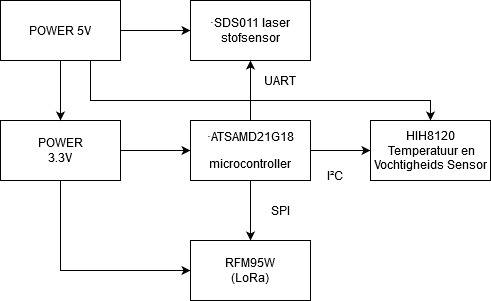
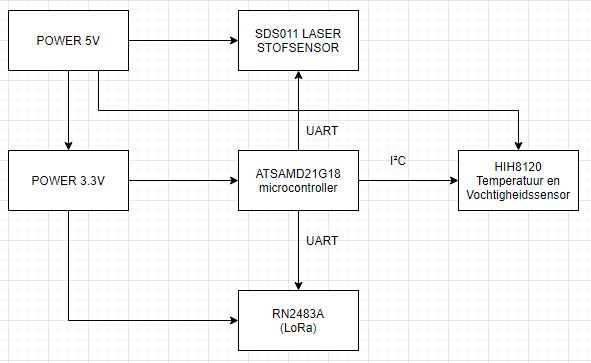
rfm95w veranderd overal naar rn2483, flowcharts aangepast

diff --git a/deliverables/analyse/hardware/argumentatie.md b/deliverables/analyse/hardware/argumentatie.md
@@ -4,8 +4,8 @@
 | ATSAMD21G | Genoeg pinnen om eventueel uitbreiding te ondersteunen                                                        |
 | SDS011    | <ul><li>Geen soldeerwerk</li> <li>Plug-and-play</li> <li>Libraries om waarden uit te lezen</li></ul>                                            |
 | HIH8120   | <ul><li>I²C communicatie</li> <li>Enige communicatie pinnen op de SAMD21 die over zijn in samenwerking met de andere sensoren</li></ul> |
-| RFM95W    |<ul><li>SPI connectie</li><li>Compact</li><li>beschikbaar in het labo</li><ul>                                                             |
+| RN2483    |<ul><li>Ondersteund door TTN-libraries</li><li>beschikbaar in het labo</li><ul>                                                             |
 | L7805     | Voltage regulator is sterk genoeg om de sensoren te voeden.                                                   |
-| LM317     | Voltage regulator is sterk genoeg om de ATSAMD21 en de RFM95W te voeden.                                      |
+| MIC5319-3.3| Voltage regulator is sterk genoeg om de ATSAMD21 en de RN2483 te voeden.                                      |
 | Li-Ion Batterij - 18650 - 3,7V 2900mAh                                | <ul><li>Grote capaciteit</li> <li>Snelladen</li> <li>Lage self-discharge</li> <li>Gebruikstemperatuur -20 <==> 60 graden Celcius</li> <li>oplaadtemperatuur 4 <==> 45 graden Celsius</li> |
 | Batterijhouder voor 18650 batterijen                                  | <ul><li>Geen soldeerwerk op de batterijen</li> <li>Makkelijk accu te vervangen</li> <li>Makkelijk extern op te laden</li></ul>     

diff --git a/deliverables/analyse/software/dataIn_Out.md b/deliverables/analyse/software/dataIn_Out.md
@@ -1,7 +1,7 @@
 ##### Data In- en Outputs
-| Blok     | Data In            | Data Out                                            |
-|----------|--------------------|-----------------------------------------------------|
+| Blok      | Data In            | Data Out                                            |
+|-----------|--------------------|-----------------------------------------------------|
 | ATSAMD21G | Sensor data (alle) | Sensor data (alle)                                  |
-| SDS011   | N.V.T.             | Sensor data (fijnstof)                              |
-| HIH8120  | N.V.T              | <ul><li>Sensor data (temperatuur)</li> <li>Sensor data (vochtigheid)</li></ul> |
-| RFM95W   | Sensor data (alle) | Sensor data (alle)                                   |
+| SDS011    | N.V.T.             | Sensor data (fijnstof)                              |
+| HIH8120   | N.V.T              | <ul><li>Sensor data (temperatuur)</li> <li>Sensor data (vochtigheid)</li></ul> |
+| RN2483    | Sensor data (alle) | Sensor data (alle)                                   |

diff --git a/deliverables/analyse/hardware/inventaris.md b/deliverables/analyse/hardware/inventaris.md
@@ -10,17 +10,23 @@
 | MIC5319-3.3           | 1      |
 | Batterij beugel       | 4      |
 | Condensator 22pF      | 2      |
+| Condensator 470pF     | 2      |
 | Condensator 0,1µF     | 5      |
 | Condensator 0,22µF    | 1      |
 | Condensator 1µF       | 2      |
+| Condensator 2.2µF     | 2      |
 | Condensator 10µF      | 2      |
 | Condensator 100µF     | 1      |
 | Weerstand 220ohm      | 1      |
 | Weerstand 330ohm      | 1      |
 | Weerstand 560ohm      | 1      |
 | Weerstand 2,2k ohm    | 2      |
+| Weerstand 10k ohm     | 2      |
+| Weerstand 100k ohm    | 2      |
 | Led                   | 1      |
+| 2N7000 mosfet         | 1      |
 | Batterij 18650 3,7V   | 2      |
+| Schakelaar            | 1      |
 | Drukknop              | 2      |
 | RN2483A               | 1      |
 | ATSAMD21G18A          | 1      |

diff --git a/_sidebar.md b/_sidebar.md
@@ -12,7 +12,7 @@
             * [Data In- en Outputs](deliverables/analyse/software/dataIn_Out.md)
             * State Diagrammen
                 * [ATSAMD21](deliverables/analyse/software/stateDiagrammen/ATSAMD21.md)
-                * [RFM95W](deliverables/analyse/software/stateDiagrammen/RFM95W.md)
+                * [RN2483](deliverables/analyse/software/stateDiagrammen/RFM95W.md)
             * [Flowchart](deliverables/analyse/software/flowchart.md)
             * Mockups
                 * [Homepagina](deliverables/analyse/mockups/homepage.md)

diff --git a/deliverables/analyse/software/stateDiagrammen/RFM95W.md b/deliverables/analyse/software/stateDiagrammen/RFM95W.md
@@ -1,2 +1,2 @@
-# RFM95W
-![Statediagram RFM95W](../../../../../img/Statediagram_RFM95W.jpg)
+# RN2483
+![Statediagram RN2483](../../../../../img/Statediagram_RN2483.jpg)
